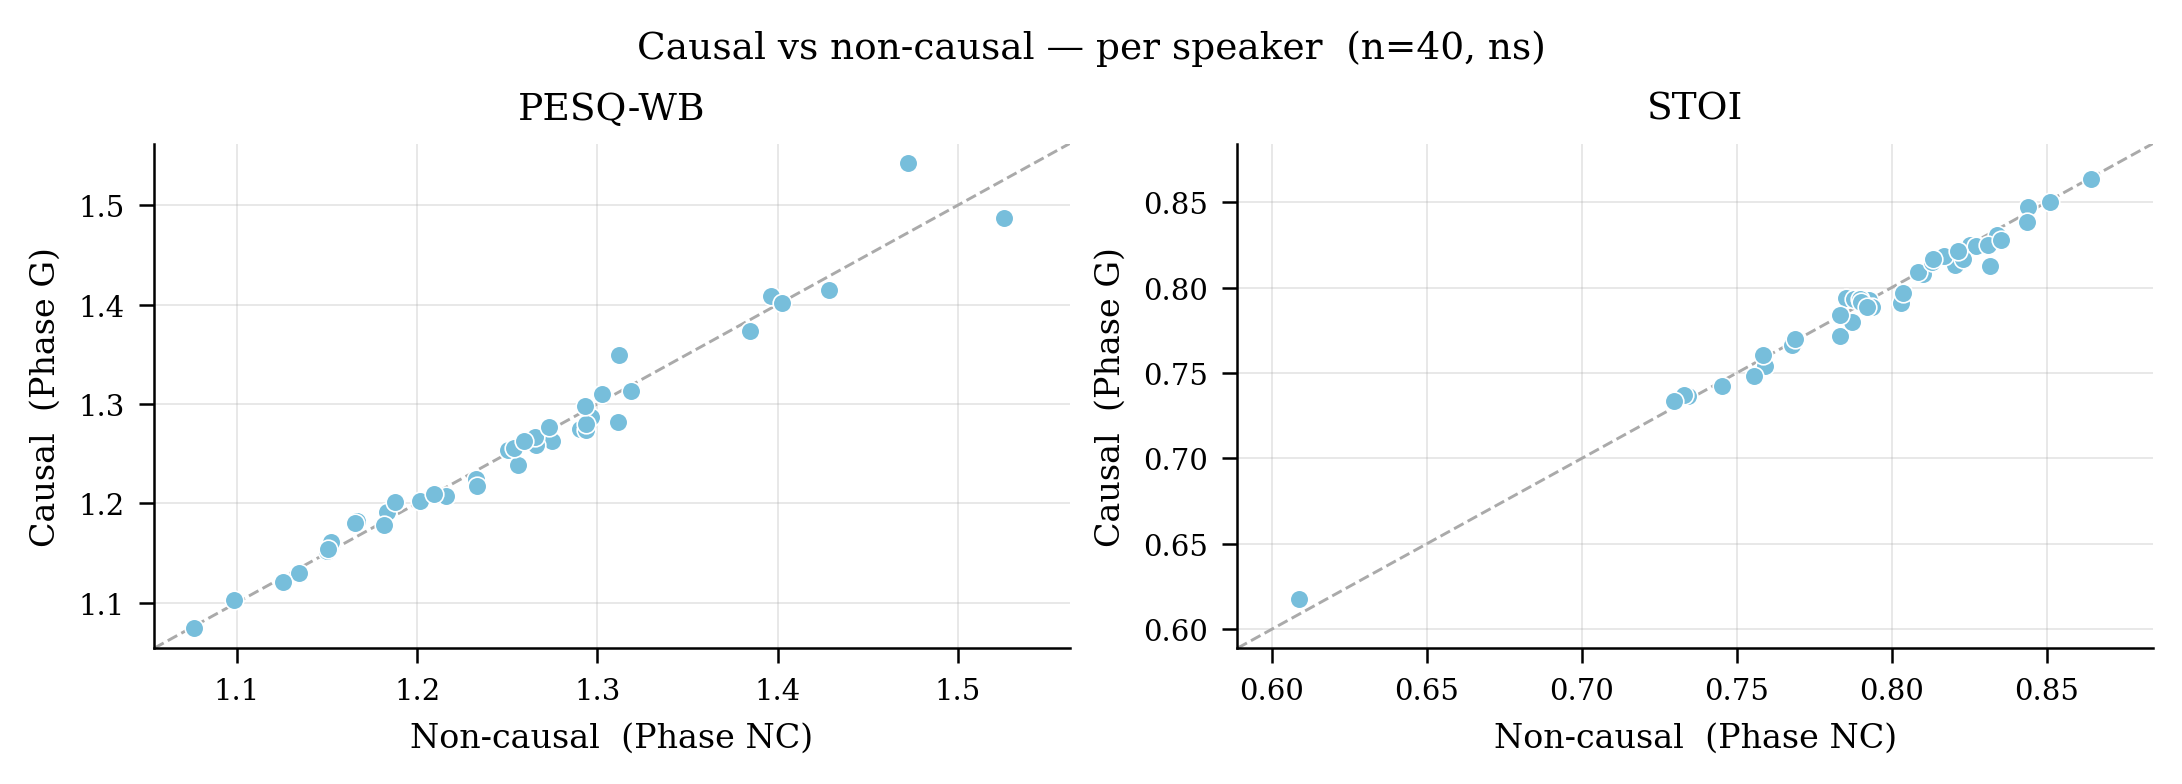
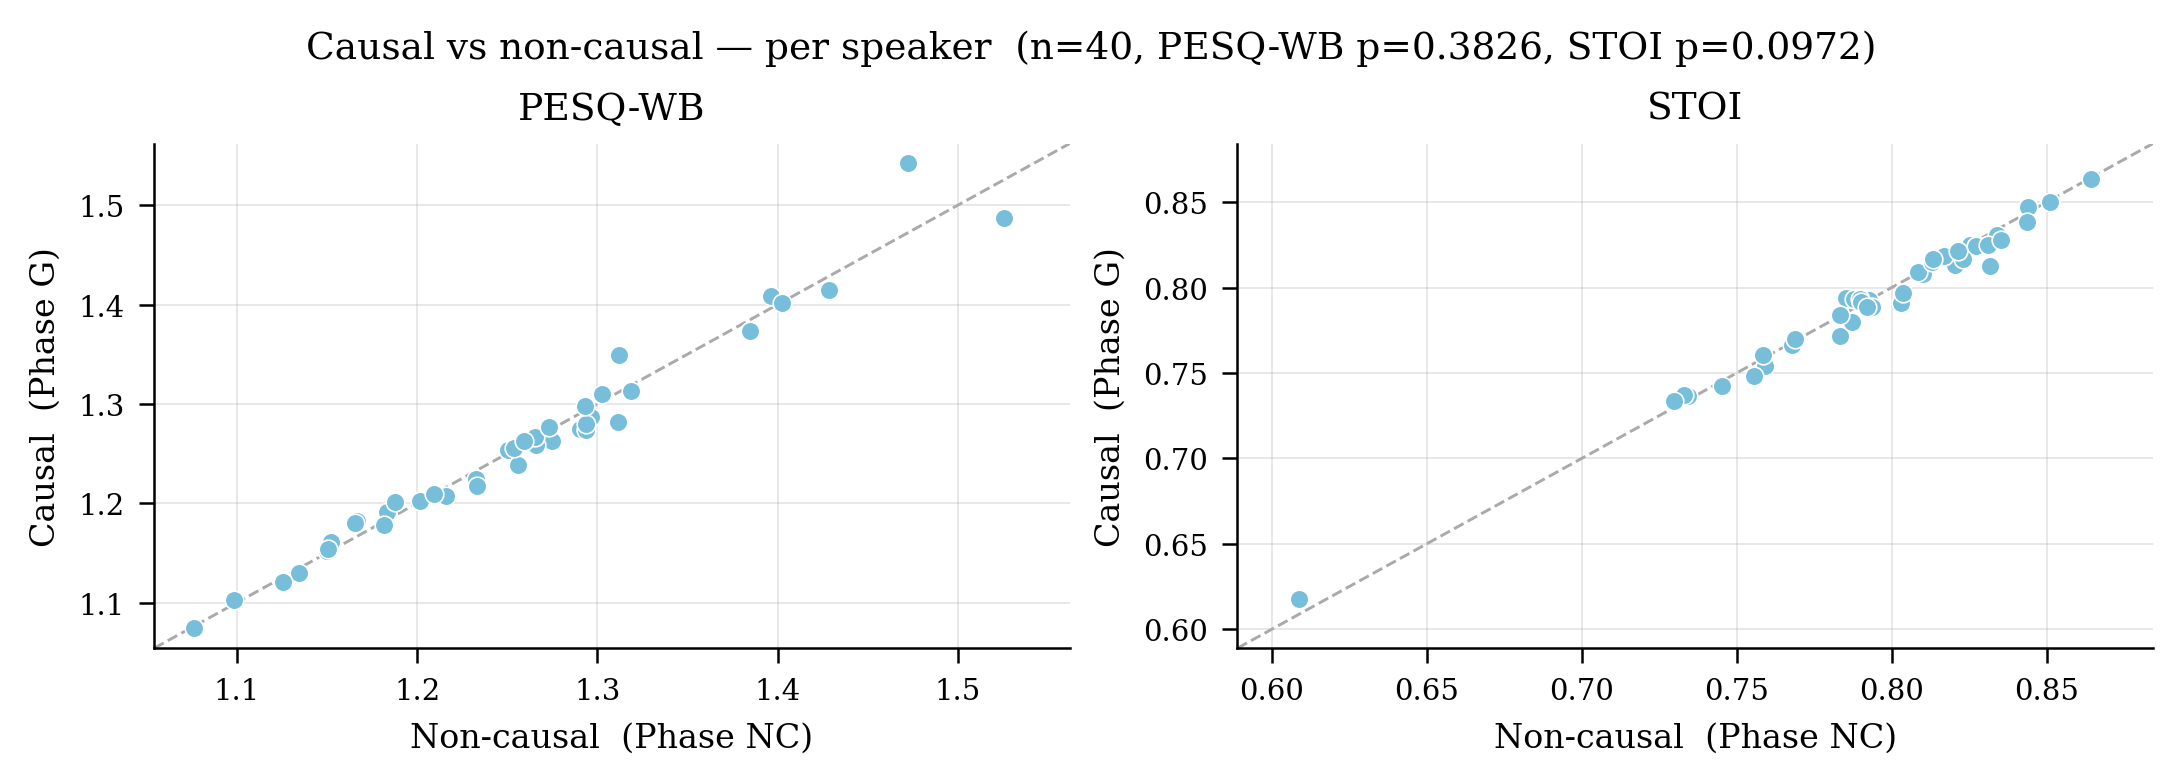
Refactor code structure for improved readability and maintainability

Changed region(s): [[0.1558, 0.0306, 0.8726, 0.0918]]

diff --git a/scripts/figures/plots.py b/scripts/figures/plots.py
@@ -275,6 +275,8 @@ def fig_07_causality(data: dict) -> plt.Figure:
     metrics = data.get('metrics')
     if metrics is None:
         raise DataNotAvailable('metrics DataFrame not loaded')
+    wilcoxon = data.get('wilcoxon', [])
+    nc_p = {r['metric']: r['p_value'] for r in wilcoxon if r['contrast'] == 'G vs NC'}
     g  = metrics[metrics['phase'] == 'G'].set_index('speaker')
     nc = metrics[metrics['phase'] == 'NC'].set_index('speaker')
     common = g.index.intersection(nc.index)
@@ -296,7 +298,8 @@ def fig_07_causality(data: dict) -> plt.Figure:
         ax.set_xlabel('Non-causal  (Phase NC)')
         ax.set_ylabel('Causal  (Phase G)')
         ax.grid(True)
-    fig.suptitle('Causal vs non-causal — per speaker  (n=40, ns)', fontsize=9)
+    p_str = f'PESQ-WB p={nc_p.get("PESQ-WB", "n/a")}, STOI p={nc_p.get("STOI", "n/a")}' if nc_p else 'ns'
+    fig.suptitle(f'Causal vs non-causal — per speaker  (n=40, {p_str})', fontsize=9)
     return fig
 
 
@@ -675,4 +678,175 @@ def fig_19_music_eval(data: dict) -> plt.Figure:
     fig.suptitle('Music eval — MUSDB18-HQ test set, n=40 tracks\n'
                  'D-VAE: highest compression + lowest quality  (p<0.0001***)',
                  fontsize=8.5)
+    return fig
+
+
+# ---------------------------------------------------------------------------
+# fig_20 — Architecture schematic (deliverable 1: the codec itself)
+# ---------------------------------------------------------------------------
+
+def fig_20_architecture(_data: dict) -> plt.Figure:
+    """Static pipeline diagram — doesn't depend on evaluation data."""
+    io_color, model_color, latent_color, quant_color, bit_color = (
+        '#999999', '#4878d0', '#77bedb', '#c4ad66', '#6acc65')
+    boxes = [
+        ('16 kHz\nspeech', io_color),
+        ('Causal encoder\n(causal convs +\n6× Transformer,\nd_model=384)', model_color),
+        ('32-dim latent\n@ 100 Hz', latent_color),
+        ('3-bit scalar\nquantizer', quant_color),
+        ('zlib entropy\ncoding →\nbitstream', bit_color),
+        ('zlib decode +\ndequantize', bit_color),
+        ('Causal decoder\n(mirrors encoder)', model_color),
+        ('16 kHz speech\n(reconstructed)', io_color),
+    ]
+    n = len(boxes)
+    fig, ax = plt.subplots(figsize=(style.COL2_W, style.ROW_H))
+    ax.set_xlim(0, n)
+    ax.set_ylim(0, 1)
+    ax.axis('off')
+
+    box_w, box_h = 0.86, 0.6
+    for i, (label, color) in enumerate(boxes):
+        cx = i + 0.5
+        ax.add_patch(mpatches.FancyBboxPatch(
+            (cx - box_w / 2, 0.5 - box_h / 2), box_w, box_h,
+            boxstyle='round,pad=0.02,rounding_size=0.04',
+            facecolor=color, edgecolor='white', linewidth=0.8, alpha=0.88, zorder=3))
+        ax.text(cx, 0.5, label, ha='center', va='center', fontsize=6.2, zorder=4)
+        if i < n - 1:
+            ax.annotate('', xy=(i + 1 + 0.5 - box_w / 2, 0.5), xytext=(cx + box_w / 2, 0.5),
+                        arrowprops=dict(arrowstyle='->', color='#444', lw=1.0), zorder=2)
+
+    ax.set_title('EntroCodec streaming pipeline: encode → bitstream → decode', fontsize=9)
+    return fig
+
+
+# ---------------------------------------------------------------------------
+# fig_21 — Model complexity: EntroCodec vs EnCodec
+# ---------------------------------------------------------------------------
+
+def fig_21_complexity(data: dict) -> plt.Figure:
+    c = data['complexity']
+    ours, enc = c['ours'], c['encodec']
+
+    labels = ['EntroCodec', 'EnCodec']
+    colors = [style.PHASE_COLORS['G'], style.PHASE_COLORS['D-VAE']]
+
+    fig, axes = plt.subplots(1, 2, figsize=(style.COL1_W, style.ROW_H))
+    for ax, vals, ylabel, fmt in [
+        (axes[0], [ours['params'] / 1e6, enc['params'] / 1e6], 'Params (M)', '{:.1f}M'),
+        (axes[1], [ours['macs'] / 1e9, enc['macs'] / 1e9], 'MACs / 1s clip (G)', '{:.1f}G'),
+    ]:
+        bars = ax.bar(labels, vals, 0.55, color=colors, edgecolor='white', linewidth=0.5)
+        for bar, v in zip(bars, vals):
+            ax.text(bar.get_x() + bar.get_width() / 2, bar.get_height() + 0.02 * max(vals),
+                    fmt.format(v), ha='center', va='bottom', fontsize=7)
+        ax.set_ylabel(ylabel)
+        ax.set_ylim(0, max(vals) * 1.2)
+        ax.grid(True, axis='y')
+
+    ratio_params = ours['params'] / enc['params']
+    ratio_macs = ours['macs'] / enc['macs']
+    fig.suptitle(f'Model complexity: EntroCodec vs EnCodec\n'
+                 f'({ratio_params:.2f}× params, {ratio_macs:.1f}× MACs — driven by unbounded\n'
+                 f'Transformer attention, not by the scalar quantizer itself)', fontsize=8.5)
+    return fig
+
+
+# ---------------------------------------------------------------------------
+# fig_22 — End-to-end delay: algorithmic vs measured CPU latency
+# ---------------------------------------------------------------------------
+
+def fig_22_latency(data: dict) -> plt.Figure:
+    c = data['complexity']
+    ours, enc = c['ours'], c['encodec']
+    colors = [style.PHASE_COLORS['G'], style.PHASE_COLORS['D-VAE']]
+
+    fig, (ax1, ax2) = plt.subplots(1, 2, figsize=(style.COL2_W, style.ROW_H))
+
+    # Left: algorithmic delay — architecturally comparable
+    labels = ['EntroCodec', 'EnCodec']
+    delay_vals = [ours['delay_ms'], enc['delay_ms']]
+    bars = ax1.bar(labels, delay_vals, 0.5, color=colors, edgecolor='white', linewidth=0.5)
+    for bar, v in zip(bars, delay_vals):
+        ax1.text(bar.get_x() + bar.get_width() / 2, v + 0.3, f'{v:.2f} ms',
+                  ha='center', va='bottom', fontsize=7)
+    ax1.set_ylabel('Algorithmic delay (ms)')
+    ax1.set_ylim(0, max(delay_vals) * 1.5)
+    ax1.set_title('Min. buffering — architecturally comparable', fontsize=8)
+    ax1.grid(True, axis='y')
+
+    # Right: measured CPU compute latency — the real, unresolved gap
+    metrics = ['Encode', 'Decode']
+    ours_vals = [ours['encode_ms'], ours['decode_ms']]
+    enc_vals = [enc['encode_ms'], enc['decode_ms']]
+    x = np.arange(2)
+    w = 0.35
+    ax2.bar(x - w / 2, ours_vals, w, color=style.PHASE_COLORS['G'],
+            edgecolor='white', linewidth=0.5, label='EntroCodec')
+    ax2.bar(x + w / 2, enc_vals, w, color=style.PHASE_COLORS['D-VAE'],
+            edgecolor='white', linewidth=0.5, label='EnCodec')
+    for xi, (ov, ev) in enumerate(zip(ours_vals, enc_vals)):
+        ax2.text(xi - w / 2, ov * 1.15, f'{ov:.0f}', ha='center', va='bottom', fontsize=6.5)
+        ax2.text(xi + w / 2, ev * 1.15, f'{ev:.0f}', ha='center', va='bottom', fontsize=6.5)
+    ax2.set_yscale('log')
+    ax2.set_xticks(x)
+    ax2.set_xticklabels(metrics)
+    ax2.set_ylabel('CPU latency (ms, log scale)')
+    ratio_encode = ours['encode_ms'] / enc['encode_ms']
+    ax2.set_title(f'CPU compute — ~{ratio_encode:.0f}× slower (not yet real-time)', fontsize=8)
+    ax2.grid(True, axis='y', which='both')
+
+    style.legend(fig, ax=ax2)
+    fig.suptitle(f'End-to-end delay: comparable in theory, ~{ratio_encode:.0f}× slower in practice\n'
+                 f'(current scripts default to {ours["chunk_ms"] / 1000:.0f}s chunking — '
+                 f'an implementation choice, not architectural)', fontsize=8.5)
+    return fig
+
+
+# ---------------------------------------------------------------------------
+# fig_23 — VCTK cross-corpus generalization (OOD validation)
+# ---------------------------------------------------------------------------
+
+def fig_23_vctk_generalization(data: dict) -> plt.Figure:
+    vctk = data['vctk']
+    comp, qual, wilcoxon = vctk['compression'], vctk['quality'], vctk['wilcoxon']
+    phases = [p for p in ['C', 'D', 'D-VAE', 'G'] if p in comp]
+    colors = [style.PHASE_COLORS[p] for p in phases]
+
+    ratios = [comp[p]['ratio'] for p in phases]
+    r_lo = [comp[p]['ratio'] - comp[p]['ratio_lo'] for p in phases]
+    r_hi = [comp[p]['ratio_hi'] - comp[p]['ratio'] for p in phases]
+    pesq = [qual[p]['pesq'] for p in phases]
+    p_lo = [qual[p]['pesq'] - qual[p]['pesq_lo'] for p in phases]
+    p_hi = [qual[p]['pesq_hi'] - qual[p]['pesq'] for p in phases]
+
+    fig, (ax1, ax2) = plt.subplots(1, 2, figsize=(style.COL2_W, style.ROW_H))
+    x = np.arange(len(phases))
+    w = 0.55
+
+    bars1 = ax1.bar(x, ratios, w, color=colors, edgecolor='white', linewidth=0.5)
+    ax1.errorbar(x, ratios, yerr=[r_lo, r_hi], fmt='none', color='#333', linewidth=0.8, capsize=2)
+    for bar, v, hi in zip(bars1, ratios, r_hi):
+        ax1.text(bar.get_x() + bar.get_width() / 2, bar.get_height() + hi + 0.05,
+                  f'{v:.2f}', ha='center', va='bottom', fontsize=6.5)
+    ax1.set_xticks(x)
+    ax1.set_xticklabels(phases)
+    ax1.set_ylabel('zlib compression ratio')
+    ax1.grid(True, axis='y')
+
+    bars2 = ax2.bar(x, pesq, w, color=colors, edgecolor='white', linewidth=0.5)
+    ax2.errorbar(x, pesq, yerr=[p_lo, p_hi], fmt='none', color='#333', linewidth=0.8, capsize=2)
+    for bar, v, hi in zip(bars2, pesq, p_hi):
+        ax2.text(bar.get_x() + bar.get_width() / 2, bar.get_height() + hi + 0.01,
+                  f'{v:.3f}', ha='center', va='bottom', fontsize=6.5)
+    ax2.set_xticks(x)
+    ax2.set_xticklabels(phases)
+    ax2.set_ylabel('PESQ-WB')
+    ax2.grid(True, axis='y')
+
+    dvae_d = next(r for r in wilcoxon if r['contrast'] == 'D-VAE vs D' and r['metric'] == 'zlib ratio')
+    fig.suptitle('D-VAE anomaly reproduces on unseen speech (VCTK-Corpus-0.92, n=40)\n'
+                 f'Highest compression, lowest quality — zlib ratio, D-VAE vs D: '
+                 f'p={dvae_d["p_value"]}{dvae_d["sig"]}', fontsize=8.5)
     return fig

diff --git a/scripts/figures/data_loader.py b/scripts/figures/data_loader.py
@@ -26,6 +26,8 @@ def load_all(project_root: Path) -> dict:
     _try(data, 'ood',          _load_ood,             comp / '2026-07-01_ood_eval' / 'report.txt')
     _try(data, 'speaker_probe',_load_speaker_probe,   comp / '2026-07-01_speaker_probe' / 'report.txt')
     _try(data, 'corruption',   _load_corruption,      comp / '2026-07-01_corruption_test' / 'report.txt')
+    _try(data, 'complexity',   _load_complexity,      comp / '2026-07-18_complexity_latency' / 'report.txt')
+    _try(data, 'vctk',         _load_second_dataset,  comp / '2026-07-10_second_dataset' / 'report.txt')
     # eval_music.py saves to comparisons/<date>_music_eval/metrics.csv — find latest
     music_dirs = sorted(comp.glob('*_music_eval'), reverse=True)
     if music_dirs:
@@ -263,3 +265,92 @@ def _load_corruption(path: Path):
         if m:
             rows.append(dict(rate=float(m.group(1)), success=float(m.group(2))))
     return rows
+
+
+# ---- Complexity / latency --------------------------------------------------
+
+def _load_complexity(path: Path):
+    text = path.read_text(encoding='utf-8')
+    num = lambda s: float(s.replace(',', ''))
+
+    ours_block = re.search(r'=== Ours.*?===\n(.*?)\n\n=== EnCodec', text, re.S).group(1)
+    enc_block = re.search(r'=== EnCodec.*?===\n(.*?)\n\nTotal params', text, re.S).group(1)
+
+    def parse_block(block):
+        d = {}
+        d['params'] = num(re.search(r'total\s+([\d,]+)', block).group(1))
+        d['macs'] = num(re.search(r'MACs \(1s clip, full fwd\)\s+([\d,]+)', block).group(1))
+        d['encode_ms'] = float(re.search(r'encode latency \(CPU\)\s+([\d.]+)\s*ms', block).group(1))
+        d['decode_ms'] = float(re.search(r'decode latency \(CPU\)\s+([\d.]+)\s*ms', block).group(1))
+        return d
+
+    ours, encodec = parse_block(ours_block), parse_block(enc_block)
+    ours['delay_ms'] = float(re.search(r'algorithmic delay.*?=\s*([\d.]+)\s*ms', text).group(1))
+    ours['chunk_ms'] = float(re.search(r'default chunking:\s*([\d.]+)\s*ms', text).group(1))
+    encodec['delay_ms'] = float(re.search(r'hop = ([\d.]+)\s*ms\)', text).group(1))
+
+    return dict(ours=ours, encodec=encodec)
+
+
+# ---- Second dataset (VCTK OOD generalization) ------------------------------
+
+_RE_VCTK_COMP_ROW = re.compile(
+    r'^\s+(\S+)\s+([\d.]+)\s+\[([\d.]+),\s*([\d.]+)\]\s+([\d.]+)\s+\[([\d.]+),\s*([\d.]+)\]\s+([\d.]+)k'
+)
+_RE_VCTK_QUAL_ROW = re.compile(
+    r'^\s+(\S+)\s+([\d.]+)\s+\[([\d.]+),\s*([\d.]+)\]\s+([\d.]+)\s+\[([\d.]+),\s*([\d.]+)\]\s*$'
+)
+_RE_VCTK_WX_HEAD = re.compile(
+    r'^\s+(\S+\s+vs\s+\S+)\s+(PESQ-WB|STOI|zlib ratio)\s+([\d.]+)\s+(<0\.0001|[\d.]+)\s+(\*{1,3}|ns)'
+)
+_RE_VCTK_WX_CONT = re.compile(
+    r'^\s{10,}(PESQ-WB|STOI|zlib ratio)\s+([\d.]+)\s+(<0\.0001|[\d.]+)\s+(\*{1,3}|ns)'
+)
+
+
+def _load_second_dataset(path: Path):
+    compression: dict = {}
+    quality: dict = {}
+    wilcoxon: list = []
+    mode = None
+    last_contrast = None
+    for line in path.read_text(encoding='utf-8').splitlines():
+        if 'COMPRESSION RATIO' in line:
+            mode = 'comp'
+        elif 'QUALITY METRICS' in line:
+            mode = 'qual'
+        elif 'WILCOXON SIGNED-RANK' in line:
+            mode = 'wilcox'
+
+        if mode == 'comp':
+            m = _RE_VCTK_COMP_ROW.match(line)
+            if m:
+                phase, zm, zlo, zhi, hm, hlo, hhi, kbps = m.groups()
+                compression[phase] = dict(
+                    ratio=float(zm), ratio_lo=float(zlo), ratio_hi=float(zhi),
+                    mean_h=float(hm), h_lo=float(hlo), h_hi=float(hhi),
+                    kbps=float(kbps),
+                )
+        elif mode == 'qual':
+            m = _RE_VCTK_QUAL_ROW.match(line)
+            if m:
+                phase, pm, plo, phi, sm, slo, shi = m.groups()
+                quality[phase] = dict(
+                    pesq=float(pm), pesq_lo=float(plo), pesq_hi=float(phi),
+                    stoi=float(sm), stoi_lo=float(slo), stoi_hi=float(shi),
+                )
+        elif mode == 'wilcox':
+            m = _RE_VCTK_WX_HEAD.match(line)
+            if m:
+                contrast, metric, wstat, pval, sig = m.groups()
+                last_contrast = contrast.strip()
+                wilcoxon.append(dict(contrast=last_contrast, metric=metric,
+                                      w_stat=float(wstat), p_value=pval, sig=sig))
+                continue
+            m = _RE_VCTK_WX_CONT.match(line)
+            if m and last_contrast:
+                metric, wstat, pval, sig = m.groups()
+                wilcoxon.append(dict(contrast=last_contrast, metric=metric,
+                                      w_stat=float(wstat), p_value=pval, sig=sig))
+
+    return dict(compression=compression, quality=quality, wilcoxon=wilcoxon)

diff --git a/scripts/generate_figures.py b/scripts/generate_figures.py
@@ -50,6 +50,11 @@ FIGURES: dict[str, tuple] = {
     'fig_17':  (plots.fig_17_entropy_ablation,   '[NEW] Entropy penalty ablation: D vs D-VAE vs D-Entropy'),
     'fig_18':  (plots.fig_18_channel_ablation,   '[NEW] Channel width ablation: 16 / 32 / 64 dims'),
     'fig_19':  (plots.fig_19_music_eval,         '[NEW] Music evaluation SI-SDR  (requires music eval run)'),
+    # Paper deliverables coverage
+    'fig_20':  (plots.fig_20_architecture,       '[NEW] Codec architecture / streaming pipeline schematic'),
+    'fig_21':  (plots.fig_21_complexity,         '[NEW] Model complexity: params + MACs, EntroCodec vs EnCodec'),
+    'fig_22':  (plots.fig_22_latency,            '[NEW] End-to-end delay: algorithmic vs measured CPU latency'),
+    'fig_23':  (plots.fig_23_vctk_generalization,'[NEW] VCTK cross-corpus generalization (OOD validation)'),
 }
 
 
@@ -79,7 +84,7 @@ def main() -> None:
     print(f'\nLoading comparison data from {PROJECT_ROOT / "comparisons"}/ ...')
     data = load_all(PROJECT_ROOT)
     loaded = [k for k in ('metrics', 'ci', 'compression', 'rd', 'multi_coder',
-                           'ood', 'speaker_probe', 'corruption', 'music')
+                           'ood', 'speaker_probe', 'corruption', 'complexity', 'vctk', 'music')
               if k in data]
     print(f'  Loaded: {", ".join(loaded)}\n')
 
